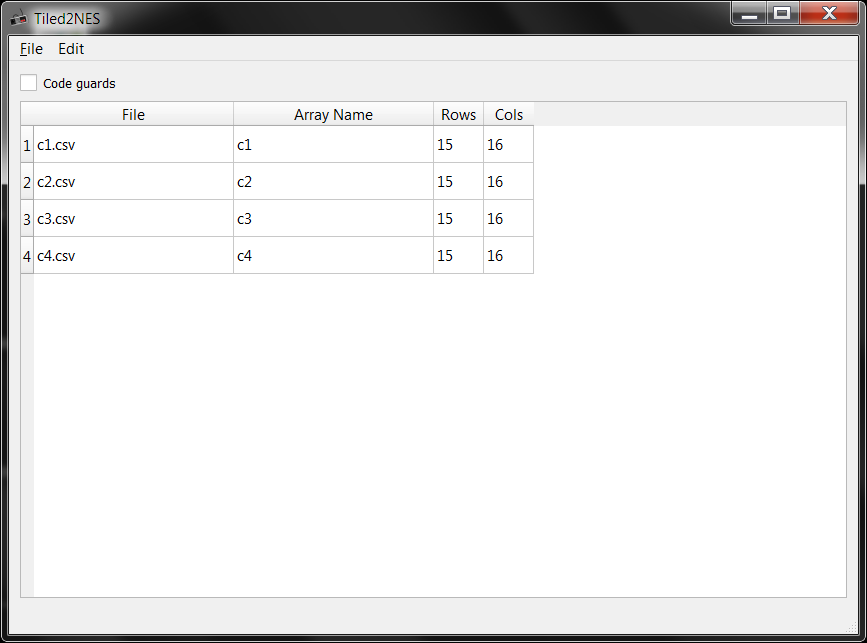
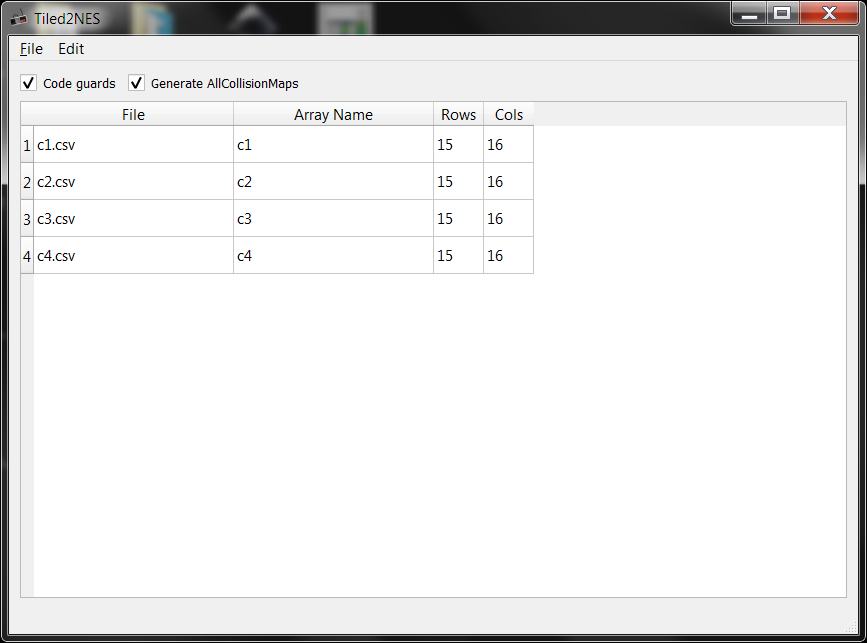
Added AllCollisionMaps option
Added option to generate a reference array of all collision maps in output.

diff --git a/src/Ui_MainWindow.py b/src/Ui_MainWindow.py
@@ -49,6 +49,9 @@ class Ui_MainWindow(object):
         self.checkCodeGuards.setSizePolicy(sizePolicy)
         self.checkCodeGuards.setObjectName("checkCodeGuards")
         self.gridLayout.addWidget(self.checkCodeGuards, 0, 0, 1, 1)
+        self.checkAllMaps = QtWidgets.QCheckBox(self.centralwidget)
+        self.checkAllMaps.setObjectName("checkAllMaps")
+        self.gridLayout.addWidget(self.checkAllMaps, 0, 1, 1, 1)
         MainWindow.setCentralWidget(self.centralwidget)
         self.menubar = QtWidgets.QMenuBar(MainWindow)
         self.menubar.setGeometry(QtCore.QRect(0, 0, 849, 26))
@@ -94,6 +97,8 @@ class Ui_MainWindow(object):
         self.tableFiles.setSortingEnabled(True)
         self.checkCodeGuards.setStatusTip(_translate("MainWindow", "Add code guards to prevent multiple inclusions"))
         self.checkCodeGuards.setText(_translate("MainWindow", "Code guards"))
+        self.checkAllMaps.setStatusTip(_translate("MainWindow", "Generate a single array of all collision maps"))
+        self.checkAllMaps.setText(_translate("MainWindow", "Generate AllCollisionMaps"))
         self.menu_File.setTitle(_translate("MainWindow", "&File"))
         self.menuEdit.setTitle(_translate("MainWindow", "Edit"))
         self.actionAdd_File.setText(_translate("MainWindow", "Add File(s)..."))
